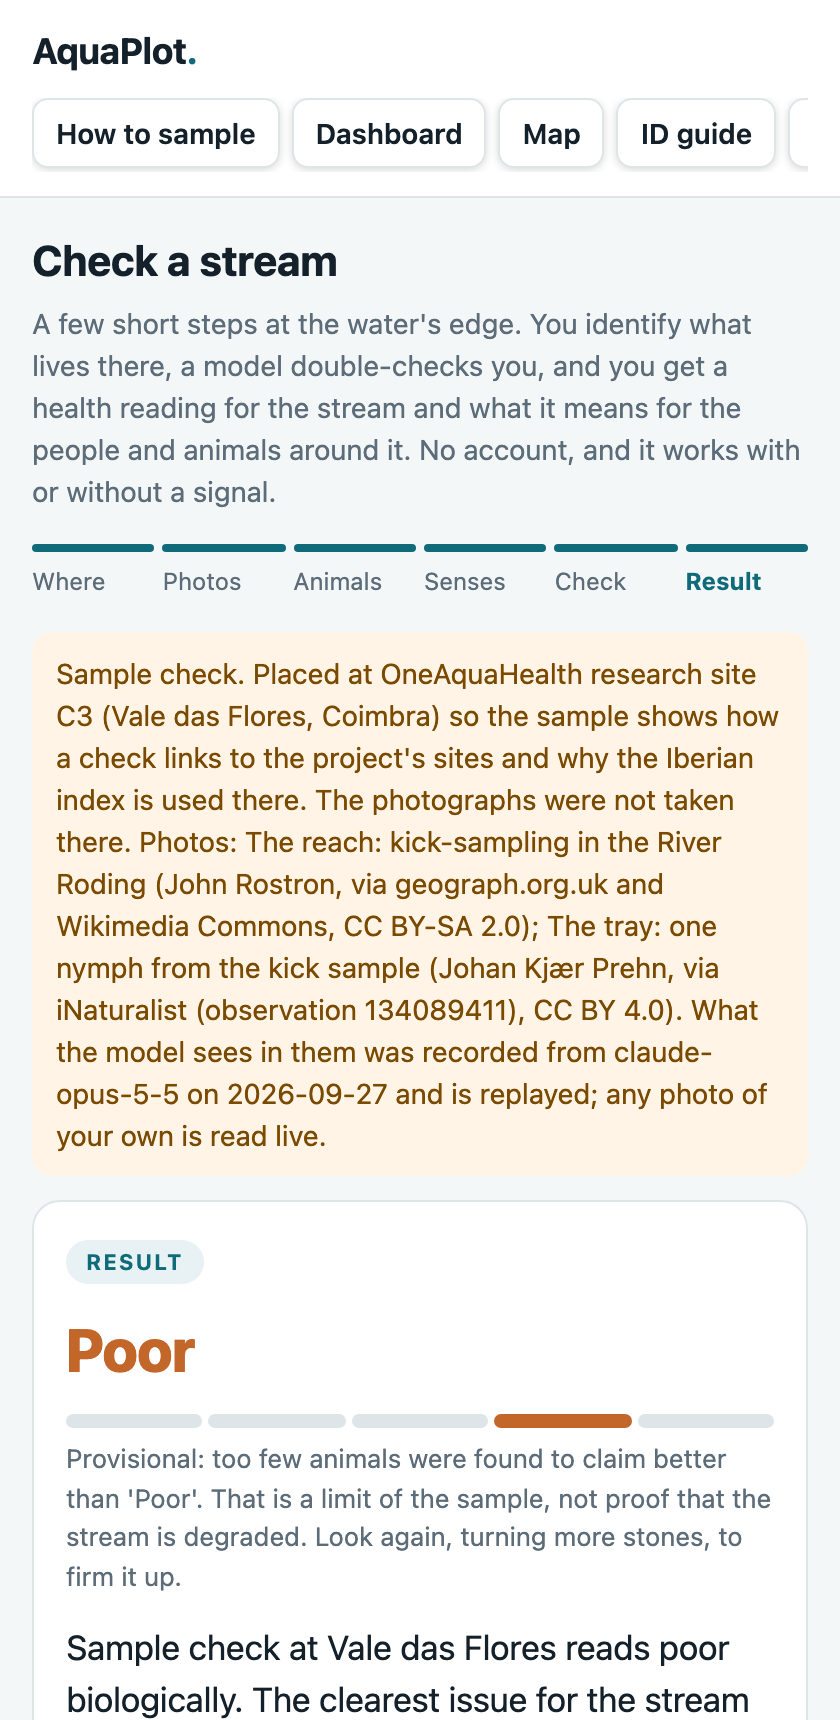
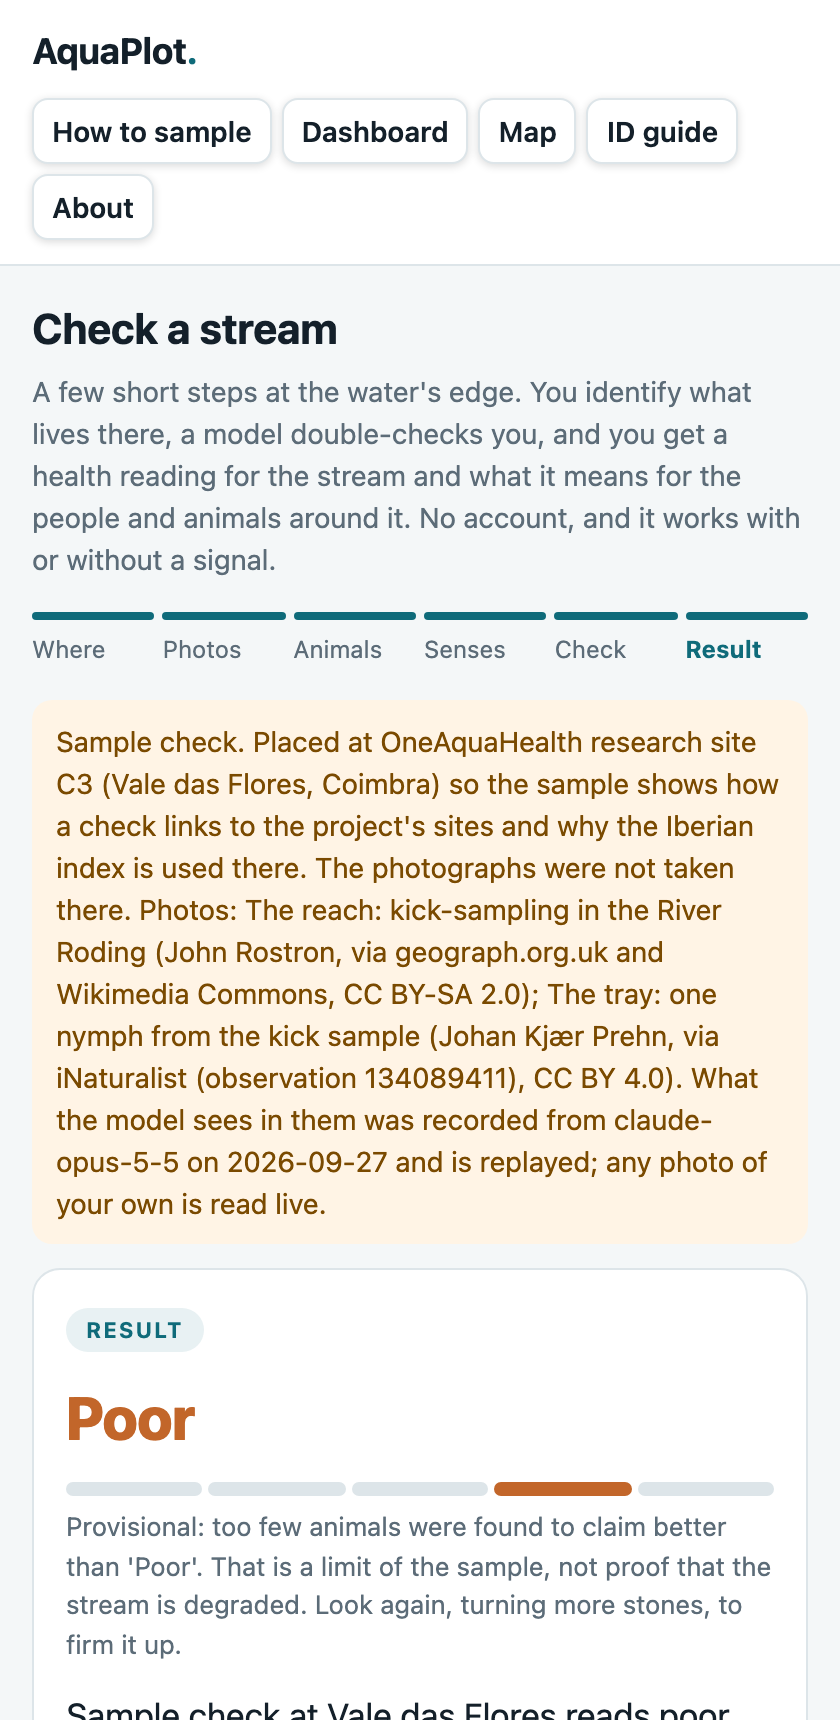
Make the pages work on the phone they are meant to be used on
AquaPlot is used standing at a riverbank, so every one of these was found at
360px rather than on a desktop.

The header's links scrolled sideways in one row, with the scrollbar hidden, to
keep the header one row tall. The cost was that a link cut off mid-word was the
only hint there was more, and the last two - the ID guide and About - could not
be reached at all by anyone who did not think to swipe a row of buttons. They
wrap now, on all four pages that had it. A second row costs about 34px of a
sticky header; a page nobody can open costs more.

The ID guide had exactly one way in, that clipped header link, so it also gets a
second one beside the animal picker - the step where somebody is actually trying
to name what is in their tray. Closing it returns focus to whichever opened it.

Picked animals were a sentence. Taking one of five back meant finding its group
again, which is the thing a person does while still standing over the tray, so
they are now chips that remove themselves when tapped. The sentence stays for
the live-region announcement and steps out of the way once the chips say the
same thing.

The dashboard's site table and the site page's visit table are wider than a
phone, so the whole page scrolled sideways instead of the table. Each table now
carries its own scroll, with every column kept, and the dashboard's gets the
thead, tbody and column scopes the site page's already had.

The result page's details were a two-column grid, so the longest term set the
[…]

Changed region(s): [[0.031, 0.0616, 0.9595, 0.7395], [0.0619, 0.7703, 0.9286, 1.0]]

diff --git a/src/aquaplot/static/check.html b/src/aquaplot/static/check.html
@@ -34,9 +34,13 @@
           padding: 6px 11px; border-radius: 8px; border: 1px solid var(--line); box-shadow: 0 1px 4px rgba(0,0,0,.15); }
   nav a:hover { color: var(--accent); border-color: var(--accent); }
   @media (max-width: 560px) {
-    /* One row that scrolls sideways, so the header never grows to two rows of buttons. */
-    nav { margin-left: 0; width: 100%; flex-wrap: nowrap; overflow-x: auto; scrollbar-width: none; padding-bottom: 2px; }
-    nav a { flex: none; white-space: nowrap; }
+    /* This used to be one row that scrolled sideways, to keep the header one row tall.
+       The scrollbar was hidden, so the only hint that there was more was a link cut off
+       mid-word - and the last two, the ID guide and About, could not be reached at all by
+       anyone who did not think to swipe a row of buttons. A second row costs about 34px of
+       a sticky header; an unreachable page costs more. */
+    nav { margin-left: 0; width: 100%; flex-wrap: wrap; gap: 5px; }
+    nav a { flex: none; white-space: nowrap; padding: 5px 9px; }
   }
   main { max-width: 640px; margin: 0 auto; padding: 16px 16px 64px; }
   h1 { font-size: 21px; margin: 0 0 4px; }
@@ -101,8 +105,20 @@
   .taxon .meta { color: var(--muted); font-size: 13px; }
   .taxon .row { margin-top: 8px; }
   .taxon .row button { padding: 6px 12px; font-size: 14px; }
+  .picks { display: flex; flex-wrap: wrap; gap: 6px; margin: 0 0 10px; }
+  .picks button { background: var(--soft); color: var(--accent); border: 1px solid var(--line); border-radius: 20px;
+                  padding: 4px 10px; font-size: 13px; font-weight: 600; display: inline-flex; align-items: center; gap: 6px; }
+  .picks button::after { content: "\00d7"; font-size: 15px; line-height: 1; opacity: .75; }
+  .picks button:hover { border-color: var(--accent); }
   .kv { display: grid; grid-template-columns: auto 1fr; gap: 4px 12px; font-size: 14px; margin-top: 10px; }
   .kv dt { color: var(--muted); } .kv dd { margin: 0; }
+  /* On a phone the longest term ("Weather either side of this check") sets the first column
+     and leaves the answers a sliver to wrap in. Stack them instead. */
+  @media (max-width: 560px) {
+    .kv { grid-template-columns: 1fr; gap: 0; }
+    .kv dt { margin-top: 10px; font-size: 13px; }
+    .kv dt:first-child { margin-top: 0; }
+  }
   .err { color: var(--alert); margin-top: 10px; }
   .foot { color: var(--muted); font-size: 12px; margin-top: 18px; }
   a { color: var(--accent); }
@@ -241,7 +257,9 @@
       looks at your tray photo separately, without seeing your answers, and tells you afterwards if it saw something
       different.</p>
     <input type="text" class="search" id="picksearch" placeholder="Search, e.g. 'three tails', 'case', 'shell', 'red worm'" aria-label="Search the animals">
+    <p class="hint"><a href="#" id="guidebtn2">Not sure what you are looking at? Open the ID guide</a></p>
     <p class="hint" id="picked" aria-live="polite">Nothing picked yet.</p>
+    <div class="picks" id="pickedchips"></div>
     <div id="picker"></div>
     <div class="row">
       <button type="button" class="ghost" data-go="step2">Back</button>
@@ -341,6 +359,7 @@ function emptyReview() { return { answers: {}, confirmed_taxa: [], rejected_taxa
 document.querySelectorAll("[data-go]").forEach((b) => b.addEventListener("click", () => show(b.dataset.go)));
 
 const PANELS = ["step1", "step2", "animals", "step3", "step4", "result"];
+let shown = false;
 function show(id) {
   PANELS.forEach((s) => { $(s).hidden = s !== id; });
   const index = PANELS.indexOf(id) + 1;
@@ -352,9 +371,13 @@ function show(id) {
   window.scrollTo({ top: 0, behavior: "smooth" });
   // Move focus to the panel heading so a screen reader and a keyboard user both
   // land where the sighted user is looking, instead of at the top of the form.
+  // Not on the first render: nobody has gone anywhere yet, and because the page
+  // has seen no interaction at that point the browser treats the focus as a
+  // keyboard one and rings the first heading, which reads as an error.
   const heading = $(id).querySelector("h2, .band");
-  if (heading) { heading.setAttribute("tabindex", "-1"); heading.focus({ preventScroll: true }); }
-  $("announce").textContent = `Step ${index} of ${PANELS.length}`;
+  if (heading && shown) { heading.setAttribute("tabindex", "-1"); heading.focus({ preventScroll: true }); }
+  if (shown) $("announce").textContent = `Step ${index} of ${PANELS.length}`;
+  shown = true;
 }
 show("step1");
 
@@ -1023,12 +1046,16 @@ let guideFamilies = [];
 const guideReady = api("/api/guide").then((r) => r.json()).then((g) => { guideFamilies = g.families; drawPicker(); })
   .catch(() => { $("picked").textContent = "The animal list could not load. You can still continue and let the model suggest."; });
 
-$("guidebtn").addEventListener("click", (e) => {
+let guideOpener = $("guidebtn");
+function openGuide(e) {
   e.preventDefault();
+  guideOpener = e.currentTarget;
   $("guide").hidden = false;
   $("guidesearch").focus();
   guideReady.then(() => drawGuide($("guidesearch").value));
-});
+}
+$("guidebtn").addEventListener("click", openGuide);
+$("guidebtn2").addEventListener("click", openGuide);
 
 // ---- step 3: the citizen identifies
 //
@@ -1048,13 +1075,33 @@ const GROUP_HEADINGS = {
   Annelida: "Worms", Megaloptera: "Alderflies", Hemiptera: "Water bugs", Turbellaria: "Flatworms",
 };
 
+function pickLabel(n) {
+  const f = guideFamilies.find((x) => x.family === n);
+  return f ? f.plain_name : `some kind of ${GROUP_WORDS[n] || n}`;
+}
+
 function togglePick(name, on) {
   state.taxa = on ? [...new Set([...state.taxa, name])] : state.taxa.filter((n) => n !== name);
-  const labels = state.taxa.map((n) => {
-    const f = guideFamilies.find((x) => x.family === n);
-    return f ? f.plain_name : `some kind of ${GROUP_WORDS[n] || n}`;
-  });
+  const labels = state.taxa.map(pickLabel);
   $("picked").textContent = labels.length ? `${labels.length} picked: ${labels.join(", ")}.` : "Nothing picked yet.";
+  // Once there are chips they say the same thing, visibly and undoably, so the sentence
+  // stops taking up room and stays only for the live-region announcement. With nothing
+  // picked there are no chips, and the sentence is the hint that says so.
+  $("picked").className = labels.length ? "sr" : "hint";
+  // The sentence above says what is picked; these say it again in a form you can undo.
+  // Without them, taking back one animal out of five means finding its group again,
+  // which is the one thing a person does while still standing over the tray.
+  const box = $("pickedchips");
+  box.innerHTML = "";
+  state.taxa.forEach((n) => {
+    const b = document.createElement("button");
+    b.type = "button";
+    b.textContent = pickLabel(n);
+    b.title = `Remove ${pickLabel(n)}`;
+    b.setAttribute("aria-label", `Remove ${pickLabel(n)}`);
+    b.addEventListener("click", () => { togglePick(n, false); drawPicker(); });
+    box.append(b);
+  });
 }
 
 function chip(name, label, detail) {
@@ -1134,8 +1181,9 @@ function drawGuide(query) {
 }
 
 $("guidesearch").addEventListener("input", (e) => drawGuide(e.target.value));
-$("guideclose").addEventListener("click", () => { $("guide").hidden = true; $("guidebtn").focus(); });
-document.addEventListener("keydown", (e) => { if (e.key === "Escape" && !$("guide").hidden) { $("guide").hidden = true; $("guidebtn").focus(); } });
+function closeGuide() { $("guide").hidden = true; guideOpener.focus(); }
+$("guideclose").addEventListener("click", closeGuide);
+document.addEventListener("keydown", (e) => { if (e.key === "Escape" && !$("guide").hidden) closeGuide(); });
 </script>
 </body>
 </html>

diff --git a/src/aquaplot/static/dashboard.html b/src/aquaplot/static/dashboard.html
@@ -27,9 +27,11 @@
           padding: 6px 11px; border-radius: 8px; border: 1px solid var(--line); box-shadow: 0 1px 4px rgba(0,0,0,.15); }
   nav a:hover { color: var(--accent); border-color: var(--accent); }
   @media (max-width: 560px) {
-    /* One row that scrolls sideways, so the header never grows to two rows of buttons. */
-    nav { margin-left: 0; width: 100%; flex-wrap: nowrap; overflow-x: auto; scrollbar-width: none; padding-bottom: 2px; }
-    nav a { flex: none; white-space: nowrap; }
+    /* Wrap rather than scroll sideways: the scrollbar was hidden, so a link cut off
+       mid-word was the only hint there was more, and the last ones could not be
+       reached at all by anyone who did not think to swipe a row of buttons. */
+    nav { margin-left: 0; width: 100%; flex-wrap: wrap; gap: 5px; }
+    nav a { flex: none; white-space: nowrap; padding: 5px 9px; }
   }
   main { max-width: 1040px; margin: 0 auto; padding: 20px 16px 60px; }
   h1 { font-size: 22px; margin: 0 0 4px; }
@@ -46,6 +48,10 @@
   table { width: 100%; border-collapse: collapse; font-size: 14px; background: var(--card);
           border: 1px solid var(--line); border-radius: 12px; overflow: hidden; }
   th, td { text-align: left; padding: 10px 12px; border-bottom: 1px solid var(--line); }
+  /* The table is wider than a phone, and without this the whole page scrolled sideways
+     instead of the table. Every column is kept; the table carries its own scroll. */
+  #sites, #table { overflow-x: auto; }
+  #sites table, #table table { min-width: 520px; }
   th { color: var(--muted); font-weight: 600; font-size: 13px; }
   tr:last-child td { border-bottom: 0; }
   .tag { font-size: 12px; font-weight: 700; padding: 2px 8px; border-radius: 20px; color: #fff; }
@@ -186,7 +192,12 @@ Promise.all([
     $("sites").innerHTML = '<div class="empty">No assessments yet. <a href="/">Record the first one.</a></div>';
   } else {
     const table = document.createElement("table");
-    table.innerHTML = "<tr><th>Site</th><th>Band</th><th>Pressure</th><th>Visits</th><th>Trend</th><th>Last seen</th></tr>";
+    // A real thead and tbody, with a scope on each heading: that is what lets a screen
+    // reader say "Band, Good" on a cell instead of reading a bare word out of a grid.
+    table.innerHTML = "<thead><tr><th scope=col>Site</th><th scope=col>Band</th><th scope=col>Pressure</th>"
+      + "<th scope=col>Visits</th><th scope=col>Trend</th><th scope=col>Last seen</th></tr></thead>";
+    const body = document.createElement("tbody");
+    table.append(body);
     sites.forEach((s) => {
       const tr = document.createElement("tr");
       const name = document.createElement("td");
@@ -200,7 +211,7 @@ Promise.all([
       trend.innerHTML = `<span class="trend ${s.trend.direction}">${s.trend.direction}</span><br><span class="trend">${escape(s.trend.detail)}</span>`;
       const seen = document.createElement("td"); seen.textContent = s.last_seen.slice(0, 10);
       tr.append(name, band, pressure, visits, trend, seen);
-      table.append(tr);
+      body.append(tr);
     });
     $("sites").append(table);
   }

diff --git a/src/aquaplot/static/site.html b/src/aquaplot/static/site.html
@@ -27,9 +27,11 @@
           padding: 6px 11px; border-radius: 8px; border: 1px solid var(--line); box-shadow: 0 1px 4px rgba(0,0,0,.15); }
   nav a:hover { color: var(--accent); border-color: var(--accent); }
   @media (max-width: 560px) {
-    /* One row that scrolls sideways, so the header never grows to two rows of buttons. */
-    nav { margin-left: 0; width: 100%; flex-wrap: nowrap; overflow-x: auto; scrollbar-width: none; padding-bottom: 2px; }
-    nav a { flex: none; white-space: nowrap; }
+    /* Wrap rather than scroll sideways: the scrollbar was hidden, so a link cut off
+       mid-word was the only hint there was more, and the last ones could not be
+       reached at all by anyone who did not think to swipe a row of buttons. */
+    nav { margin-left: 0; width: 100%; flex-wrap: wrap; gap: 5px; }
+    nav a { flex: none; white-space: nowrap; padding: 5px 9px; }
   }
   main { max-width: 860px; margin: 0 auto; padding: 20px 16px 60px; }
   h1 { font-size: 22px; margin: 0 0 2px; }
@@ -55,6 +57,10 @@
   table { width: 100%; border-collapse: collapse; font-size: 14px; background: var(--card);
           border: 1px solid var(--line); border-radius: 12px; overflow: hidden; }
   th, td { text-align: left; padding: 10px 12px; border-bottom: 1px solid var(--line); }
+  /* The table is wider than a phone, and without this the whole page scrolled sideways
+     instead of the table. Every column is kept; the table carries its own scroll. */
+  #sites, #table { overflow-x: auto; }
+  #sites table, #table table { min-width: 520px; }
   th { color: var(--muted); font-weight: 600; font-size: 13px; }
   tr:last-child td { border-bottom: 0; }
   .tag { font-size: 12px; font-weight: 700; padding: 2px 8px; border-radius: 20px; color: #fff; }
@@ -183,7 +189,8 @@ function drawTable(visits) {
     <td><a href="/api/assess/${esc(v.id)}/report" target="_blank" rel="noopener">report</a></td>
   </tr>`).join("");
   $("table").innerHTML = `<table><thead><tr>
-    <th>Date</th><th>Class</th><th>ASPT</th><th>Families</th><th>Pressure</th><th>One Health</th><th>Certainty</th><th></th>
+    <th scope="col">Date</th><th scope="col">Class</th><th scope="col">ASPT</th><th scope="col">Families</th>
+    <th scope="col">Pressure</th><th scope="col">One Health</th><th scope="col">Certainty</th><th></th>
   </tr></thead><tbody>${rows}</tbody></table>`;
 }
 </script>

diff --git a/src/aquaplot/static/about.html b/src/aquaplot/static/about.html
@@ -25,9 +25,11 @@
           padding: 6px 11px; border-radius: 8px; border: 1px solid var(--line); box-shadow: 0 1px 4px rgba(0,0,0,.15); }
   nav a:hover { color: var(--accent); border-color: var(--accent); }
   @media (max-width: 560px) {
-    /* One row that scrolls sideways, so the header never grows to two rows of buttons. */
-    nav { margin-left: 0; width: 100%; flex-wrap: nowrap; overflow-x: auto; scrollbar-width: none; padding-bottom: 2px; }
-    nav a { flex: none; white-space: nowrap; }
+    /* Wrap rather than scroll sideways: the scrollbar was hidden, so a link cut off
+       mid-word was the only hint there was more, and the last ones could not be
+       reached at all by anyone who did not think to swipe a row of buttons. */
+    nav { margin-left: 0; width: 100%; flex-wrap: wrap; gap: 5px; }
+    nav a { flex: none; white-space: nowrap; padding: 5px 9px; }
   }
   main { max-width: 880px; margin: 0 auto; padding: 28px 16px 70px; }
   a { color: var(--accent); }
